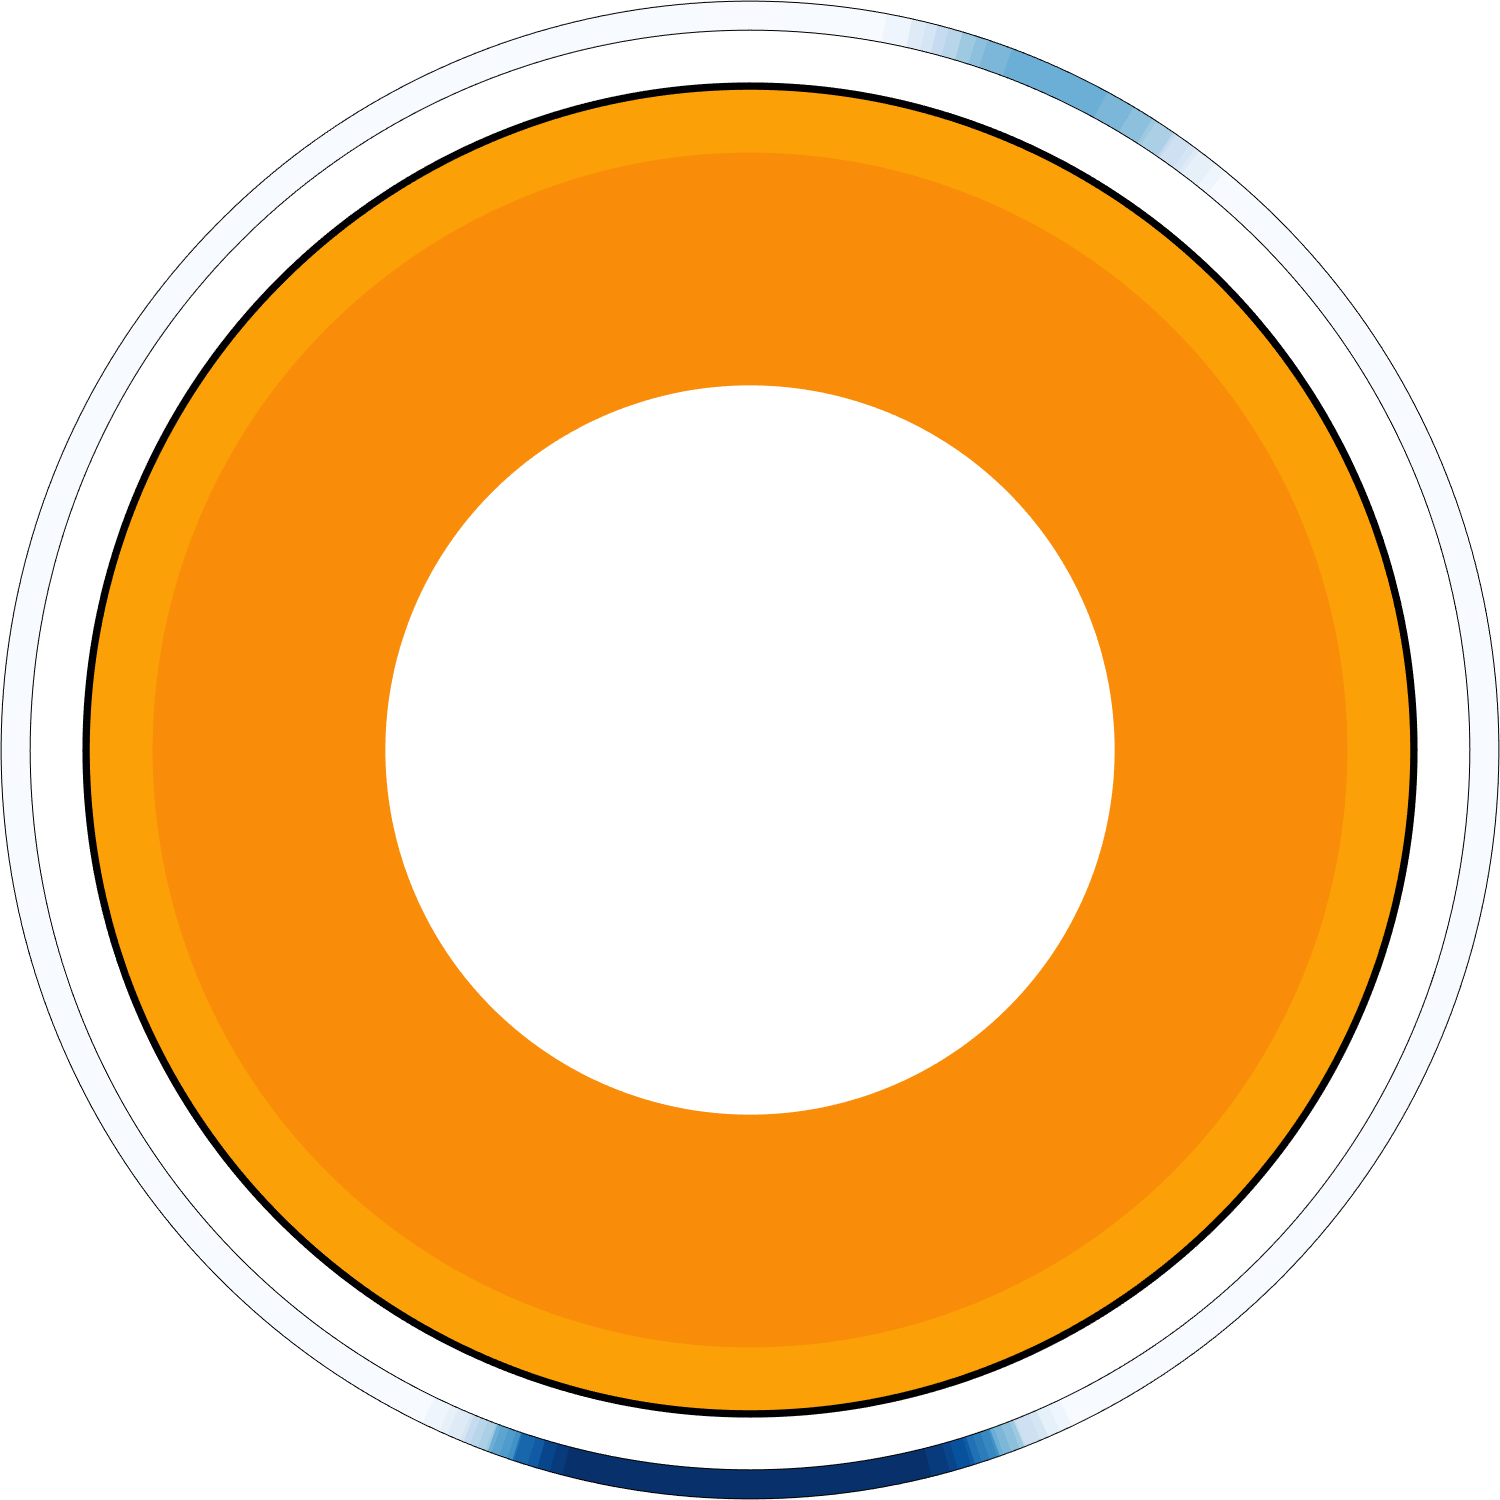
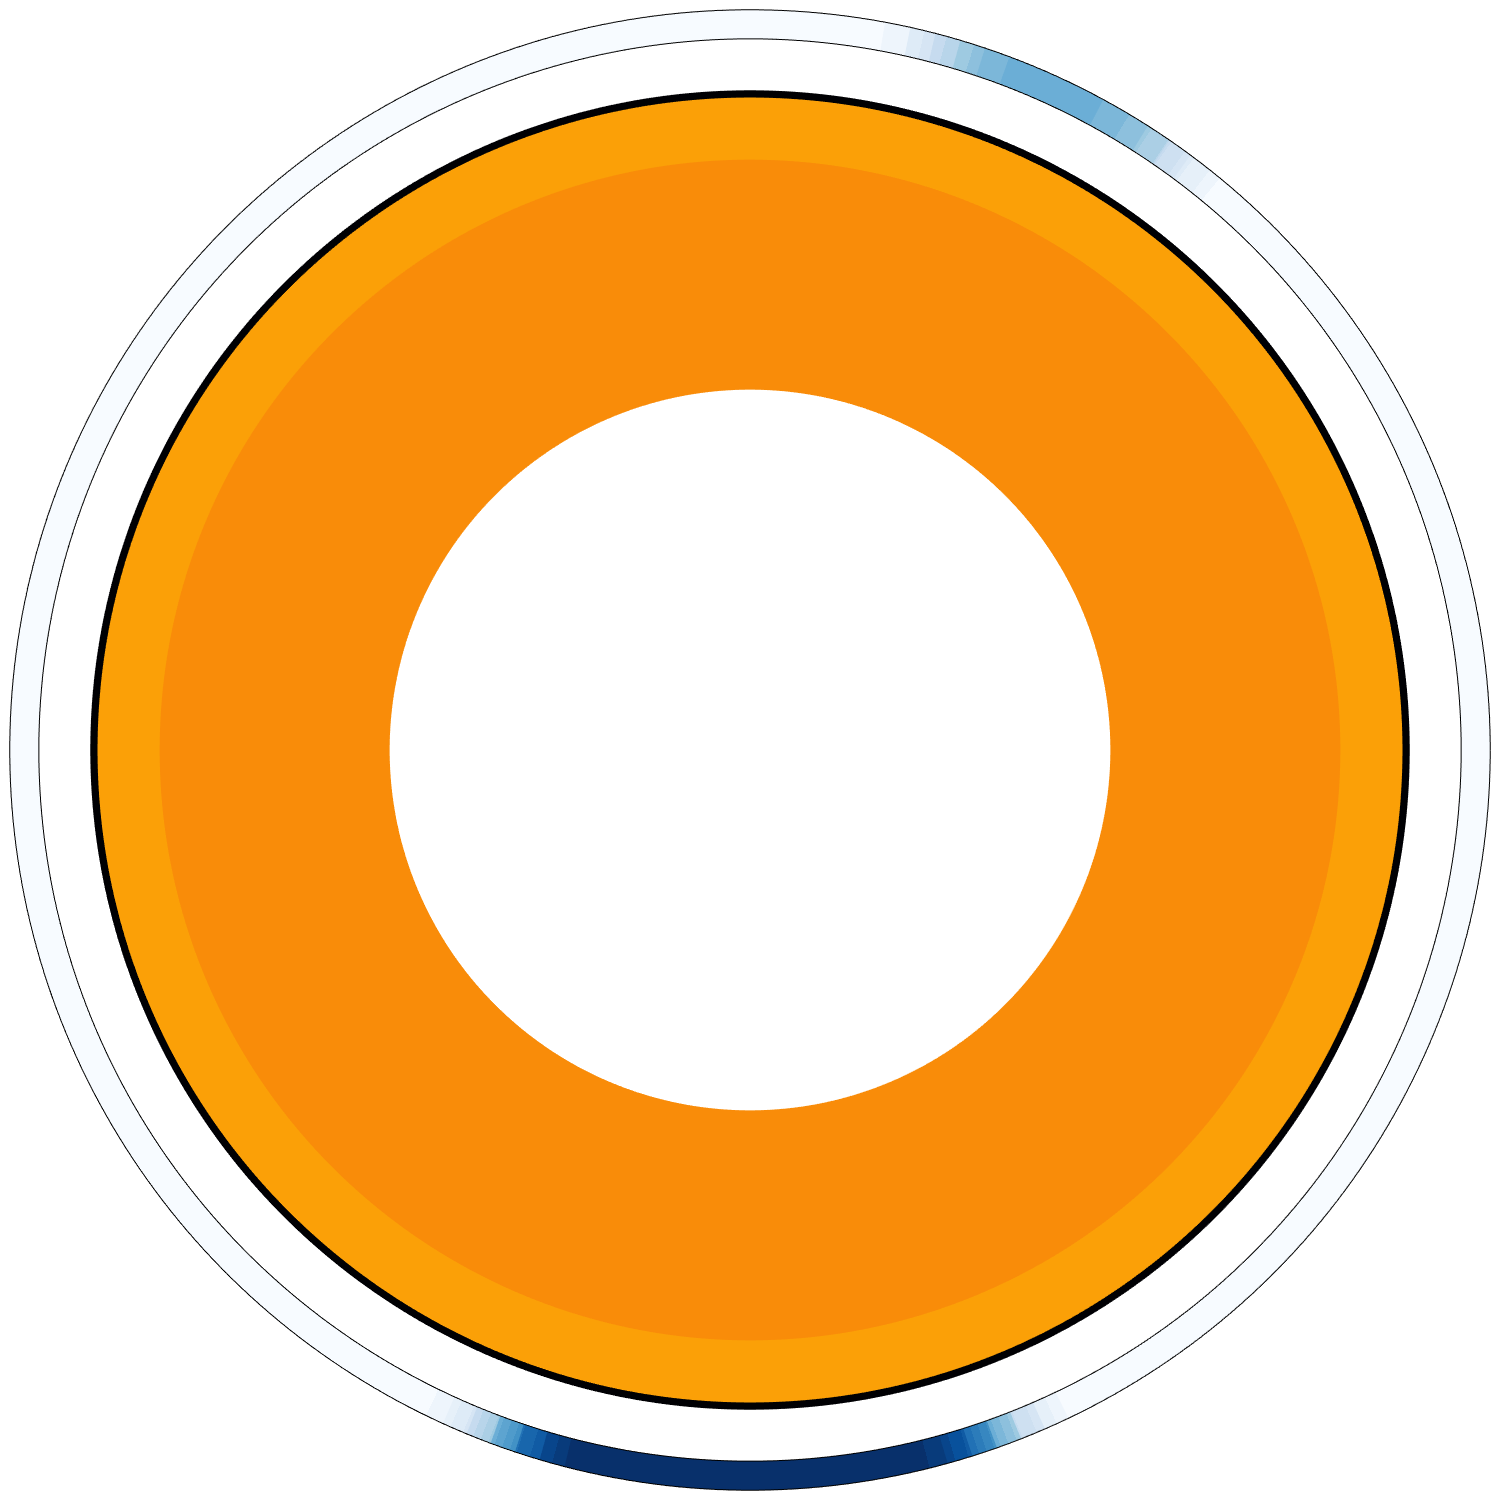
Plotting improvements

diff --git a/visc_inversion/plot_visc_solution.py b/visc_inversion/plot_visc_solution.py
@@ -13,7 +13,16 @@ height = round(height_inches*dpi)
 radius = 2.2
 zoom = 3.8
 
-steps = [0, 1, 5, 10, 20, 30, 40, 50, 100]
+steps = [0, 1, 5, 10, 20, 30, 40, 50, 100, 200]
+
+# read disc file to add outline at top and bottom surface of domain
+reader_disc = pv.get_reader('discfile_0.vtu')
+data_disc = reader_disc.read()
+surf = data_disc.extract_feature_edges(boundary_edges=True, non_manifold_edges=False,
+                                  feature_edges=False, manifold_edges=False)
+sphere = pv.Sphere(radius=0.8*radius)
+clipped_surf = surf.clip_surface(sphere, invert=False)
+lw = 5
 
 for s in steps:
     # Read the PVD file
@@ -29,6 +38,11 @@ for s in steps:
     boring_cmap = plt.get_cmap("inferno_r", 25)
 
     plotter = pv.Plotter(window_size=(width, height),  border=False, notebook=False, off_screen=True)
+    
+    # add outline of domain
+    plotter.add_mesh(surf, color='black',line_width=lw, lighting=False,show_scalar_bar=False)
+    
+    # add viscosity plot
     plotter.add_mesh(
         data,
         scalars='updated viscosity',
@@ -45,7 +59,8 @@ for s in steps:
                                      (0.0, 1.0, 0.0)]
 
     plotter.screenshot(f"visc_plots/visc3d_step{s}.png")
-    
+   
+
     # Plot misfit
     data['viscosity'] *= 1e21
     
@@ -55,6 +70,11 @@ for s in steps:
     reds_cmap = plt.get_cmap("Reds", 25)
 
     plotter = pv.Plotter(window_size=(width, height),  border=False, notebook=False, off_screen=True)
+
+    # add outline of domain
+    plotter.add_mesh(surf, color='black',line_width=lw, lighting=False,show_scalar_bar=False)
+
+    # add misfit plot
     plotter.add_mesh(
         data,
         scalars='viscosity misfit',
@@ -72,9 +92,6 @@ for s in steps:
     plotter.screenshot(f"visc_misfit/visc3d_relative_misfit_step{s}.png")
    
 
-adj_steps = [0, 1, 5, 10, 20, 30, 40, 50, 99]
-
-for s in adj_steps:
     # Plot adjoints
     # Read the PVD file
     visc_file = f"/data/viscoelastic/internal_variable_adjoint/adjoint/setonix/visc_only/adjoint-cylinder-2d-internalvariable-ctypeviscosity-visconly_icesmooth0.0_icedamp0.0_viscsmooth1e-6_viscdamp1e-5_checkmisfit3_adjvisc/adjoint-cylinder-2d-internalvariable-ctypeviscosity-visconly_icesmooth0.0_icedamp0.0_viscsmooth1e-6_viscdamp1e-5_checkmisfit3_adjvisc_{s}.pvtu"
@@ -86,6 +103,11 @@ for s in adj_steps:
     boring_cmap = plt.get_cmap("coolwarm", 25)
 
     plotter = pv.Plotter(window_size=(width, height),  border=False, notebook=False, off_screen=True)
+    
+    # add outline of domain
+    plotter.add_mesh(surf, color='black',line_width=lw, lighting=False,show_scalar_bar=False)
+    
+    # add adjoint viscosity plot
     plotter.add_mesh(
         data,
         scalars='adjoint_control viscosity',

diff --git a/visc_inversion/plot_figure10_visc_inversion.py b/visc_inversion/plot_figure10_visc_inversion.py
@@ -1,0 +1,76 @@
+import matplotlib.pyplot as plt
+import matplotlib
+from matplotlib import colormaps, colors
+import numpy as np
+import pandas as pd
+from matplotlib.cm import ScalarMappable
+
+
+
+fig, ax = plt.subplots(5, 3, figsize=(8,13.3333), dpi=300, layout="constrained")
+
+# fonts and linewidths etc
+fs = 9
+fs_lab = 10
+ms = 0.75
+lw = 0.75
+
+
+steps = [0, 10, 50, 100, 200]
+
+for i in range(len(steps)):
+    # viscosity
+    visc = plt.imread(f'visc_plots/visc3d_step{steps[i]}.png')
+    ax[i,0].imshow(visc)
+    ax[i,0].axis('off')
+
+    
+    # viscosity relative misfit
+    visc_misfit = plt.imread(f'visc_misfit/visc3d_relative_misfit_step{steps[i]}.png')
+    ax[i,1].imshow(visc_misfit)
+    ax[i,1].axis('off') 
+    
+    
+    if i == 0:
+        vpos = 1
+    elif i ==3:
+        vpos = 1.05
+    else:
+        vpos=1.03
+
+    ax[i,0].annotate(
+            f"Step {steps[i]}",
+            xy=(-0.03, vpos), xycoords='axes fraction',
+            xytext=(+0.4, -0.4), textcoords='offset fontsize',
+            fontsize=fs, verticalalignment='top',
+            bbox=dict(facecolor='white', edgecolor='black', pad=3.8))
+
+    
+    # adjoint viscosity
+    visc_adj = plt.imread(f'visc_adj/visc3d_adj_step{steps[i]}.png')
+    ax[i,2].imshow(visc_adj)
+    ax[i,2].axis('off') 
+
+
+# Add colour bars
+# visc cbar
+visc_cmap = plt.get_cmap("inferno_r", 25)
+visc_cbar = ScalarMappable(norm=colors.LogNorm(vmin=1e20, vmax=1e25), cmap=visc_cmap)
+fig.colorbar(visc_cbar,
+             ax=ax[4,0], orientation='horizontal', label='Viscosity (Pa s)',shrink=0.8) # ticks=[1e20, 1e21, 1e22, 1e23,1e24,1e25])
+
+# visc misfit cbar
+visc_misfit_cmap = plt.get_cmap("Reds", 25)
+visc_misfit_cbar = ScalarMappable(norm=colors.Normalize(vmin=0, vmax=1), cmap=visc_misfit_cmap)
+fig.colorbar(visc_misfit_cbar,
+             ax=ax[4,1], orientation='horizontal', label='Relative misfit',shrink=0.8)
+
+# adj visc cbar
+visc_adj_cmap = plt.get_cmap("coolwarm", 25)
+
+visc_adj_cbar = ScalarMappable(norm=colors.Normalize(vmin=-0.01, vmax=0.01), cmap=visc_adj_cmap)
+fig.colorbar(visc_adj_cbar,
+             ax=ax[4,2], orientation='horizontal', label='Adjoint viscosity ', shrink=0.8)
+figname = "Figure_10_visc_inversion_19.06.25"
+fig.savefig(f'{figname}.png')
+

diff --git a/visc_inversion/plot_visc_objective.py b/visc_inversion/plot_visc_objective.py
@@ -14,9 +14,8 @@ fs_lab = 10
 ms = 0.75
 lw = 0.75
 
-obj = np.loadtxt('adjoint-cylinder-2d-internalvariable-ctypeviscosity-visconly_icesmooth0.0_icedamp0.0_viscsmooth1e-6_viscdamp1e-5_checkmisfit3_functional.txt')
-
-ax.semilogy(obj, color='k', linestyle='-', linewidth=lw)
+obj = np.loadtxt('adjoint-cylinder-2d-internalvariable-ctypeviscosity-visconly_icesmooth0.0_icedamp0.0_viscsmooth1e-6_viscdamp1e-5_checkmisfit3_300its_functional.txt')
+ax.semilogy(obj[:201], color='k', linestyle='-', linewidth=lw)
 
 # Plot short, 1D burgers
 ax.set_xlabel('Iteration number', fontsize=fs_lab)
@@ -25,6 +24,6 @@ ax.grid(True, linestyle='dotted')
 ax.tick_params(axis='both', which='major', labelsize=fs)
 
 
-figname = "Figure_11_visc_objfunc_inversion_18.06.25"
+figname = "Figure_11_visc_objfunc_inversion_19.06.25"
 fig.savefig(f'{figname}.png')
 

diff --git a/runscripts/internal_variable_adjoint/plotting/plot_visc.py b/runscripts/internal_variable_adjoint/plotting/plot_visc.py
@@ -16,7 +16,7 @@ visc_3d_file = "forward-cylinder-2d-internalvariable-dispvel--1dviscFalse-visc/f
 ice_file = 'discfile_0.vtu'
 
 radius = 2.2
-zoom =4.2
+zoom =4.25
 reader_1d = pv.get_reader(visc_1d_file)
 reader_3d = pv.get_reader(visc_3d_file)
 data_1d = reader_1d.read()  # MultiBlock mesh with only 1 block
